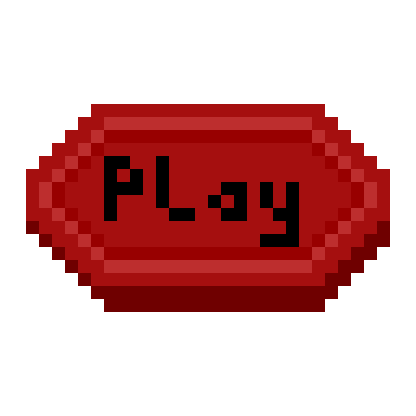
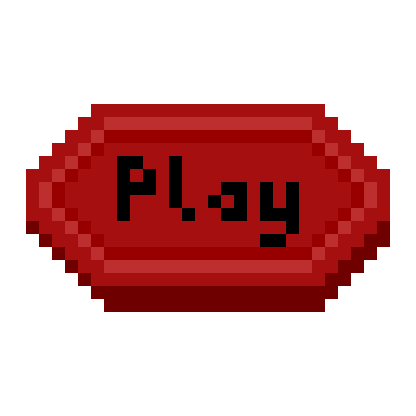
sdf

Changed region(s): [[0.25, 0.375, 0.4375, 0.5312], [0.6875, 0.5625, 0.7188, 0.5938], [0.625, 0.5, 0.6562, 0.5312]]

diff --git a/The Meat Man/Code/script.js b/The Meat Man/Code/script.js
@@ -19,6 +19,8 @@ let titleImg
 let treeImg
 let playImg = ["", ""]
 let play
+let controlsImg = ["", ""]
+let controls
 
 function preload() {
   idle = loadImage('idle.png')
@@ -36,6 +38,8 @@ function preload() {
   treeImg = loadImage('tree.png')
   playImg[0] = loadImage('play-1.png')
   playImg[1] = loadImage('play-2.png')
+  controlsImg[0] = loadImage('controls-1.png')
+  controlsImg[1] = loadImage('controls-2.png')
 }
 
 function setup() {
@@ -86,7 +90,6 @@ function draw() {
   uGround.collider = "s"
   meatMan.image.scale = scaleF
   meatMan.image.offset.y = -30
-  play.debug = true
 }
 
 function movement() {
@@ -131,10 +134,9 @@ function menu() {
   floor.image = floorImg
   uGround.image = uGroundImg
   if (set === false) {
-    play = new Sprite([[520, 590], [650, 550], [600, 700], [520, 590]])
+    play = new Sprite([[480, 480], [480, 518], [527, 565], [660, 565], [700, 525], [700, 479], [660, 439], [521, 439], [480, 480]])
     play.collider = "k"
     play.image = playImg[0]
-    play.image.scale = 0.6
     for (let i = 0; i<= 20; i++) {
       let ground = new floor.Sprite(101*i, 700)
       for (let l = 0; l <= 2; l++) {
@@ -144,9 +146,17 @@ function menu() {
     set = true
   }
   image(titleImg, 340, -80, 500, 500)
-  
-  
   blinking()
+  if (play.mouse.pressing()) {
+    play.img = playImg[1]
+  } else {
+    play.img = playImg[0]
+  }
+  play.image.scale = 0.6
+}
+
+function levelSelect() {
+
 }
 
 function one() {
